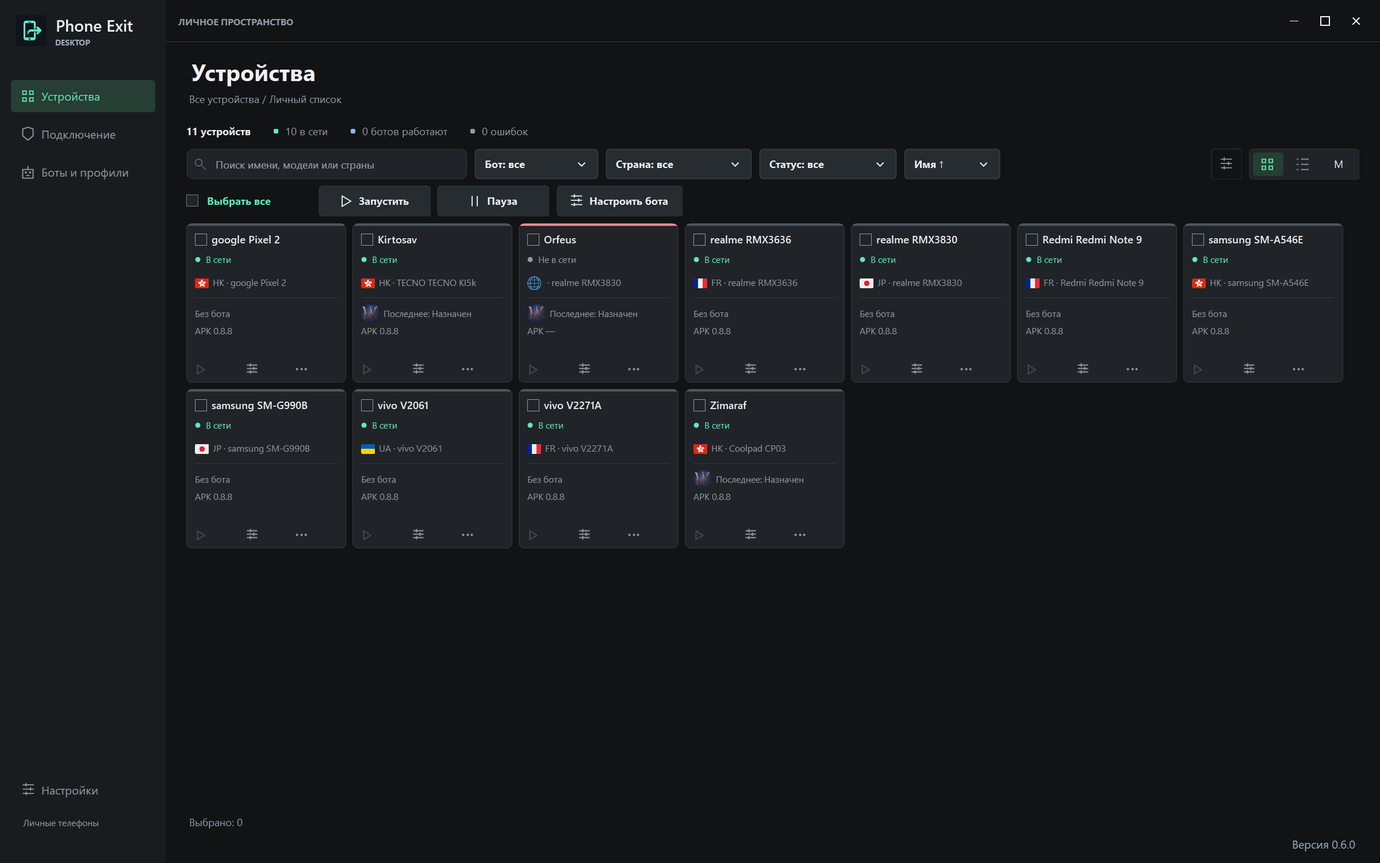
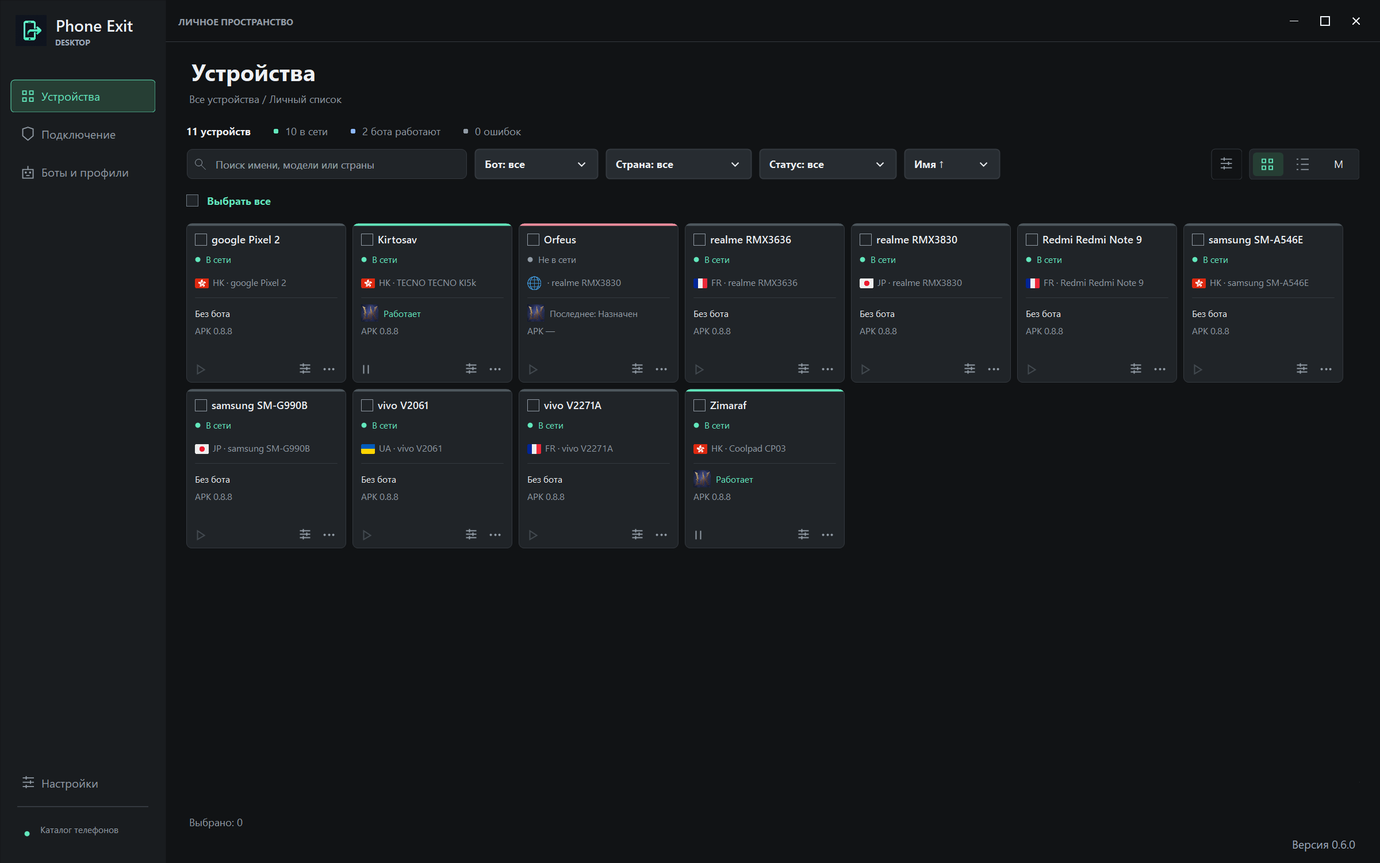
Улучшить встроенные настройки ботов и доступность действий

diff --git a/phone-exit/pc/desktop-bots.cs b/phone-exit/pc/desktop-bots.cs
@@ -15,10 +15,12 @@ public class BotWindow : MonitorDpiWindow {
     [DllImport("user32.dll")] static extern bool ReleaseCapture();
     [DllImport("user32.dll")] static extern IntPtr SendMessage(IntPtr h,int m,IntPtr w,IntPtr l);
     readonly Label heading=new Label();
+    readonly Panel windowBar=new Panel{Dock=DockStyle.Top,Height=56,BackColor=Color.FromArgb(32,36,40)};
+    protected void HideWindowChrome(){windowBar.Visible=false;Padding=Padding.Empty;}
     public bool ProductHeading;
     protected int D(double value){return (int)Math.Round(value*LayoutScale);}
     public BotWindow(){DoubleBuffered=true;BackColor=Color.FromArgb(17,19,21);ForeColor=Color.White;Font=new Font("Segoe UI",10);FormBorderStyle=FormBorderStyle.None;Padding=new Padding(1);MaximizedBounds=Screen.FromControl(this).WorkingArea;
-        var bar=new Panel{Dock=DockStyle.Top,Height=56,BackColor=Color.FromArgb(32,36,40)};heading.Dock=DockStyle.Fill;heading.Padding=new Padding(18,0,0,0);heading.TextAlign=ContentAlignment.MiddleLeft;heading.Font=new Font("Segoe UI",12,FontStyle.Bold);bar.Controls.Add(heading);
+        var bar=windowBar;heading.Dock=DockStyle.Fill;heading.Padding=new Padding(18,0,0,0);heading.TextAlign=ContentAlignment.MiddleLeft;heading.Font=new Font("Segoe UI",12,FontStyle.Bold);bar.Controls.Add(heading);
         foreach(var icon in new[]{"minimize","maximize","close"}){var button=new CaptionButton{Icon=icon,AccessibleName=icon=="close"?"Закрыть":icon=="maximize"?"Развернуть":"Свернуть",Text="",Dock=DockStyle.Right,Width=48,BackColor=bar.BackColor,ForeColor=Color.White,FlatStyle=FlatStyle.Flat};button.FlatAppearance.BorderSize=0;bar.Controls.Add(button);string action=icon;button.Click+=(s,e)=>{if(action=="close")Close();else if(action=="minimize")WindowState=FormWindowState.Minimized;else{MaximizedBounds=Screen.FromControl(this).WorkingArea;WindowState=WindowState==FormWindowState.Maximized?FormWindowState.Normal:FormWindowState.Maximized;}};Resize+=(s,e)=>{button.RestoredIcon=WindowState==FormWindowState.Maximized;button.Invalidate();};}
         heading.MouseDown+=(s,e)=>{if(e.Button==MouseButtons.Left){ReleaseCapture();SendMessage(Handle,0xa1,(IntPtr)2,IntPtr.Zero);}};heading.DoubleClick+=(s,e)=>WindowState=WindowState==FormWindowState.Maximized?FormWindowState.Normal:FormWindowState.Maximized;Controls.Add(bar);}
     protected override void OnTextChanged(EventArgs e){base.OnTextChanged(e);heading.Text=ProductHeading?"Phone Exit":Text;}
@@ -54,11 +56,12 @@ public sealed class BotButton : Button {
         e.Graphics.Clear(Parent==null?Color.FromArgb(17,19,21):Parent.BackColor);e.Graphics.SmoothingMode=SmoothingMode.AntiAlias;var r=new RectangleF(1,1,Width-3,Height-3);float radius=D(10);
         using(var path=new GraphicsPath()){path.AddArc(r.X,r.Y,radius,radius,180,90);path.AddArc(r.Right-radius,r.Y,radius,radius,270,90);path.AddArc(r.Right-radius,r.Bottom-radius,radius,radius,0,90);path.AddArc(r.X,r.Bottom-radius,radius,radius,90,90);path.CloseFigure();Color fill=Enabled?BackColor:Color.FromArgb(32,36,40);if(hover&&Enabled)fill=ControlPaint.Light(fill,.12f);using(var brush=new SolidBrush(fill))e.Graphics.FillPath(brush,path);using(var pen=new Pen(Color.FromArgb(52,57,63)))e.Graphics.DrawPath(pen,path);}
         if(!String.IsNullOrEmpty(ToolIcon)){PaintTool(e.Graphics);return;}
-        string tone=!Enabled?"muted":BackColor==Color.FromArgb(98,231,188)?"dark":ForeColor==Color.FromArgb(255,143,143)?"danger":"light";
+        string tone=!Enabled?"muted":BackColor==Color.FromArgb(98,231,188)?"dark":ForeColor==Color.FromArgb(255,143,143)?"danger":ForeColor==Color.FromArgb(98,231,188)?"mint":"light";
         var actionIcon=DesktopActionIcons.Get(ActionIconName,tone);int left=D(8);
+        Color textInk=!Enabled?Color.FromArgb(119,136,158):actionIcon==null?ForeColor:tone=="dark"?Color.FromArgb(16,37,30):tone=="mint"?Color.FromArgb(98,231,188):tone=="danger"?Color.FromArgb(255,143,143):Color.FromArgb(238,241,244);
         if(actionIcon!=null){e.Graphics.DrawImage(actionIcon,new Rectangle(IconOnly?(Width-D(22))/2:D(12),(Height-D(22))/2,D(22),D(22)));left=D(44);}
         else if(Image!=null){e.Graphics.DrawImage(Image,new Rectangle(D(8),(Height-D(28))/2,D(28),D(28)));left=D(44);}
-        if(!IconOnly){var flags=(Image==null&&actionIcon==null?TextFormatFlags.HorizontalCenter:TextFormatFlags.Left)|TextFormatFlags.VerticalCenter|TextFormatFlags.NoPadding|TextFormatFlags.EndEllipsis|(NavigationCount>=0&&Height<=D(52)||actionIcon!=null?TextFormatFlags.SingleLine:TextFormatFlags.WordBreak);TextRenderer.DrawText(e.Graphics,Caption??Text,Font,new Rectangle(left,D(4),Math.Max(1,Width-left-D(NavigationCount<0?8:30)),Height-D(8)),Enabled?ForeColor:Color.Gray,flags);}
+        if(!IconOnly){var flags=(Image==null&&actionIcon==null?TextFormatFlags.HorizontalCenter:TextFormatFlags.Left)|TextFormatFlags.VerticalCenter|TextFormatFlags.NoPadding|TextFormatFlags.EndEllipsis|(NavigationCount>=0&&Height<=D(52)||actionIcon!=null?TextFormatFlags.SingleLine:TextFormatFlags.WordBreak);TextRenderer.DrawText(e.Graphics,Caption??Text,Font,new Rectangle(left,D(4),Math.Max(1,Width-left-D(NavigationCount<0?8:30)),Height-D(8)),textInk,flags);}
         if(NavigationCount>=0)TextRenderer.DrawText(e.Graphics,NavigationCount.ToString(),Font,new Rectangle(Width-D(28),0,D(24),Height),Color.Silver,TextFormatFlags.NoPadding|TextFormatFlags.SingleLine|TextFormatFlags.HorizontalCenter|TextFormatFlags.VerticalCenter);
         if(Focused)ControlPaint.DrawFocusRectangle(e.Graphics,new Rectangle(4,4,Width-8,Height-8),ForeColor,BackColor);
     }
@@ -84,7 +87,7 @@ public sealed class BotTabs : UserControl {
         int D(int value){return (int)Math.Round(value*DesktopDpi.Relative(this));}
         protected override void OnPaint(PaintEventArgs e){e.Graphics.Clear(BackColor);int textWidth=TextRenderer.MeasureText(Text,Font).Width;int left=Math.Max(D(8),(Width-textWidth-D(30))/2);var icon=DesktopActionIcons.Get(IconName,Active?"mint":"light");if(icon!=null)e.Graphics.DrawImage(icon,new Rectangle(left,(Height-D(22))/2,D(22),D(22)));TextRenderer.DrawText(e.Graphics,Text,Font,new Rectangle(left+D(30),0,Width-left-D(34),Height),Active?Color.FromArgb(98,231,188):Color.Silver,TextFormatFlags.Left|TextFormatFlags.VerticalCenter|TextFormatFlags.SingleLine);if(Active)using(var pen=new Pen(Color.FromArgb(98,231,188),3))e.Graphics.DrawLine(pen,12,Height-2,Width-12,Height-2);if(Focused)ControlPaint.DrawFocusRectangle(e.Graphics,new Rectangle(8,6,Width-16,Height-12),ForeColor,BackColor);}
     }
-    public BotTabs(){BackColor=Color.FromArgb(17,19,21);Controls.Add(body);Controls.Add(header);body.BringToFront();AccessibleRole=AccessibleRole.PageTabList;}
+    public BotTabs(){BackColor=Color.FromArgb(17,19,21);body.Padding=new Padding(0,16,0,0);Controls.Add(body);Controls.Add(header);body.BringToFront();AccessibleRole=AccessibleRole.PageTabList;}
     public void AddPage(string title){int index=TabPages.Count;var page=new Panel{Dock=DockStyle.Fill,BackColor=BackColor,ForeColor=Color.White,Padding=new Padding(12),Visible=false};TabPages.Add(page);body.Controls.Add(page);var button=new TabButton{Text=title,IconName=index==0?"bot":index==1?"map":index==2?"smartphone":"triangle-alert",AccessibleName=title,Width=150,Height=42,Left=index*150,BackColor=BackColor,ForeColor=Color.White};buttons.Add(button);header.Controls.Add(button);button.Click+=(s,e)=>SelectedIndex=index;if(selected<0)SelectedIndex=0;}
     public void SetPageAvailable(int index,bool available){if(available)unavailable.Remove(index);else unavailable.Add(index);buttons[index].Visible=available;int left=0;for(int i=0;i<buttons.Count;i++)if(!unavailable.Contains(i)){buttons[i].Left=left;left+=buttons[i].Width;}if(!available&&selected==index)SelectedIndex=0;}
     public int SelectedIndex{get{return selected;}set{if(value<0||value>=TabPages.Count||value==selected||unavailable.Contains(value))return;selected=value;for(int i=0;i<TabPages.Count;i++){TabPages[i].Visible=i==value;buttons[i].Active=i==value;buttons[i].Invalidate();}TabPages[value].BringToFront();if(SelectedIndexChanged!=null)SelectedIndexChanged(this,EventArgs.Empty);}}
@@ -113,6 +116,42 @@ public sealed class BotPanel : BotWindow {
     string deviceId; bool deviceAvailable;
     readonly Label deviceHeading=new Label(),deviceInfo=new Label();
     BotTabs deviceTabs; readonly Label errorInfo=new Label();
+    readonly Label deviceDetails=new Label();
+    bool embedded;
+    Action embeddedFit;
+    public bool CanLeave(){return !dirty||ConfirmDiscard();}
+    public void SetEmbeddedHeaderOffset(int offset){
+        if(!embedded)return;var list=mainLayout.GetControlFromPosition(0,0);
+        if(list is DarkFlowPanel){
+            mainLayout.Controls.Remove(list);var host=new Panel{Dock=DockStyle.Fill,Margin=Padding.Empty};host.Controls.Add(list);mainLayout.Controls.Add(host,0,0);list=host;
+            host.Controls.Add(new Label{Name="embeddedTitle",Text="Боты и профили",Font=new Font("Segoe UI",20,FontStyle.Bold),ForeColor=Color.FromArgb(238,241,244),AutoSize=false});
+            host.Controls.Add(new Label{Name="embeddedSubtitle",Text="Игры и настройки личных телефонов",Font=new Font("Segoe UI",9),ForeColor=Color.FromArgb(145,155,165),AutoSize=false});
+        }
+        list.Padding=new Padding(0,offset,0,0);int width=Math.Max(100,list.ClientSize.Width-12);
+        list.Controls["embeddedTitle"].SetBounds(6,0,width,offset*38/89);
+        list.Controls["embeddedSubtitle"].SetBounds(6,offset*41/89,width,offset*25/89);
+        list.Controls["embeddedTitle"].BringToFront();list.Controls["embeddedSubtitle"].BringToFront();list.PerformLayout();
+    }
+    protected override void Dispose(bool disposing){if(disposing){poll.Stop();poll.Dispose();http.Dispose();toolTips.Dispose();}base.Dispose(disposing);}
+    public void PrepareEmbedded(){
+        embedded=true;TopLevel=false;MinimumSize=Size.Empty;HideWindowChrome();Font=new Font("Segoe UI",9);phones.Font=Font;
+        phones.CellBorderStyle=DataGridViewCellBorderStyle.SingleHorizontal;phones.ColumnHeadersBorderStyle=DataGridViewHeaderBorderStyle.None;phones.ColumnHeadersDefaultCellStyle.ForeColor=Color.Silver;phones.RowTemplate.Height=54;phones.ColumnHeadersDefaultCellStyle.Font=new Font(Font,FontStyle.Bold);
+        var listHost=new DarkFlowPanel{Dock=DockStyle.Fill,AutoScroll=true,FlowDirection=FlowDirection.TopDown,WrapContents=false,Margin=Padding.Empty};mainLayout.Controls.Remove(phones);phones.Dock=DockStyle.None;phones.Margin=Padding.Empty;phones.ScrollBars=ScrollBars.None;listHost.Controls.Add(phones);mainLayout.Controls.Add(listHost,0,0);Action fitList=()=>{phones.Width=Math.Max(100,listHost.ClientSize.Width-16);phones.Height=phones.ColumnHeadersHeight+phones.Rows.Count*phones.RowTemplate.Height+2;};listHost.Resize+=(s,e)=>fitList();phones.RowsAdded+=(s,e)=>fitList();phones.RowsRemoved+=(s,e)=>fitList();fitList();
+        mainLayout.Padding=Padding.Empty;mainLayout.ColumnStyles[0].SizeType=SizeType.Percent;mainLayout.ColumnStyles[0].Width=52;mainLayout.ColumnStyles[1].SizeType=SizeType.Percent;mainLayout.ColumnStyles[1].Width=48;mainLayout.RowStyles[1].Height=64;
+        var old=mainLayout.GetControlFromPosition(1,0);var stack=new DarkFlowPanel{Dock=DockStyle.Fill,AutoScroll=true,FlowDirection=FlowDirection.TopDown,WrapContents=false,Padding=new Padding(24,0,12,0)};
+        foreach(Control c in new List<Control>(SnapshotControls(old)))stack.Controls.Add(c);mainLayout.Controls.Remove(old);old.Dispose();mainLayout.Controls.Add(stack,1,0);
+        foreach(Control c in stack.Controls){if(c is Label&&c.Text.StartsWith("Настройки применяются"))c.Visible=false;if(c is Label&&c.Font.Bold)c.Font=new Font("Segoe UI",12,FontStyle.Bold);if(c is CheckBox){c.AutoSize=false;c.Height=54;c.Margin=Padding.Empty;}if(c is FlowLayoutPanel){var band=(FlowLayoutPanel)c;band.Height=200;foreach(BotButton b in band.Controls){b.Font=Font;if(b.Text=="Запустить"||b.Text=="Пауза"||b.Text=="Продолжить"||b.Text=="Остановить"){b.IconOnly=true;b.Size=new Size(44,44);}}}var button=c as BotButton;if(button!=null){button.Font=Font;button.ActionIconName=button.Text.StartsWith("Сохранить")?"save":button.Text.StartsWith("Скопировать")?"copy":button.Text.StartsWith("F ·")?"map":button.Text.StartsWith("Имя")?"smartphone":button.Text.StartsWith("Папка")?"triangle-alert":button.ActionIconName;button.Caption=button.Text.StartsWith("Сохранить")?"Сохранить и отправить":button.Text.StartsWith("Скопировать")?"Копировать настройки":button.Text.StartsWith("F ·")?"Настройка фарма":button.Text.StartsWith("Имя")?"Персонаж и поставщик":button.Text.StartsWith("Папка")?"Журнал и скриншоты":button.Text;toolTips.SetToolTip(button,button.Text);}}
+        Action fit=()=>{int w=Math.Max(100,stack.ClientSize.Width-stack.Padding.Horizontal-12);foreach(Control c in stack.Controls){var b=c as BotButton;c.Width=b==null?w:Math.Min(w,b.ContentWidth());if(c is FlowLayoutPanel){c.Visible=true;foreach(BotButton child in c.Controls)child.Width=child.IconOnly?44:Math.Min(w,child.ContentWidth());c.PerformLayout();int bottom=0;foreach(Control child in c.Controls)if(child.Visible)bottom=Math.Max(bottom,child.Bottom+child.Margin.Bottom);c.Height=Math.Max(1,bottom);c.Visible=bottom>0;}}stack.PerformLayout();};stack.Resize+=(s,e)=>fit();
+        // Keep runtime commands separate from module maintenance as the pane narrows.
+        var commandBand=new FlowLayoutPanel{WrapContents=false,Height=52,Margin=new Padding(0,8,0,16)};
+        foreach(Control c in new List<Control>(SnapshotControls(stack))){var band=c as FlowLayoutPanel;if(band==null)continue;foreach(Control child in new List<Control>(SnapshotControls(band))){var button=child as BotButton;if(button!=null&&button.IconOnly)commandBand.Controls.Add(button);}if(commandBand.Controls.Count>0){stack.Controls.Add(commandBand);stack.Controls.SetChildIndex(commandBand,stack.Controls.GetChildIndex(band));break;}}
+        foreach(Control c in stack.Controls){var label=c as Label;if(label!=null){label.MaximumSize=new Size(Math.Max(100,stack.ClientSize.Width-stack.Padding.Horizontal-24),0);label.Margin=new Padding(0,6,0,10);}var button=c as BotButton;if(button!=null){button.Margin=new Padding(0,4,0,4);button.Height=44;if(button.ActionIconName=="map")button.ForeColor=Color.White;if(button.ActionIconName=="import")button.Caption="Импорт профиля MultiBot";}}
+        stack.Padding=new Padding(24,0,12,24);
+        foreach(Control c in stack.Controls){var button=c as BotButton;if(button!=null&&button.ActionIconName=="map"&&!actions.Contains(button))actions.Add(button);}
+        embeddedFit=fit;
+        stack.Resize+=(s,e)=>{foreach(Control c in stack.Controls){var label=c as Label;if(label!=null)label.MaximumSize=new Size(Math.Max(100,stack.ClientSize.Width-stack.Padding.Horizontal-24),0);}fit();stack.PerformLayout();};fit();stack.PerformLayout();
+        status.BackColor=Background;status.Padding=new Padding(0,8,0,0);status.AutoSize=false;status.TextAlign=ContentAlignment.TopLeft;
+    }
     public string[] InitialCopyTargets=new string[0];
     readonly Label moduleLabel=new Label(); string moduleVersion="1.0.0";
     readonly DarkSelect gameSelect=new DarkSelect{Width=420,Height=44,AccessibleName="Игра"};
@@ -189,7 +228,7 @@ public sealed class BotPanel : BotWindow {
         var cancelEditor=new BotButton{Text="Отменить проверку",AutoSize=true,BackColor=Surface,ForeColor=Color.White};pointButtons.Controls.Add(cancelEditor);buttonCommands[cancelEditor]=async()=>{if(!busy||selected==null)return;try{await Request("POST","/v1/devices/"+selected+"/commands",new{command="bot",args=new{op="pause"}});status.Text="Отмена отправлена; ожидается подтверждение телефона.";}catch{status.Text="Отмена не подтверждена; проверьте связь.";}};cancelEditor.Click+=(s,e)=>buttonCommands[cancelEditor]();
         status.Dock=DockStyle.Fill;status.ForeColor=Color.FromArgb(197,207,219);status.BackColor=Surface;status.Padding=new Padding(14,10,14,10);status.Text="Загрузка телефонов… Выберите телефон. Точки и маршрут — в F · Настройка фарма.";layout.Controls.Add(status,0,1);layout.SetColumnSpan(status,2);
         var locationMenu=new BotButton{Text="⋯",AccessibleName="Действия с локацией",Width=46,Height=40,BackColor=Surface,ForeColor=Color.White};var locationActions=new ContextMenuStrip{ShowImageMargin=false,BackColor=Surface,ForeColor=Color.White,Renderer=new DarkMenuRenderer()};foreach(Control action in new List<Control>(SnapshotControls(pointButtons))){var button=action as Button;if(button==null)continue;button.Visible=false;var item=new ToolStripMenuItem(button.Text);item.Click+=(s,e)=>buttonCommands[button]();locationActions.Items.Add(item);}locationMenu.Click+=(s,e)=>{for(int i=0;i<locationActions.Items.Count;i++)locationActions.Items[i].Enabled=pointButtons.Controls[i].Enabled;locationActions.Show(locationMenu,new Point(0,locationMenu.Height));};pointButtons.Controls.Add(locationMenu);toolTips.SetToolTip(locationMenu,"Действия с локацией");FormClosed+=(s,e)=>locationActions.Dispose();
-        Shown+=async(s,e)=>{if(!String.IsNullOrEmpty(deviceId))ConfigureDeviceView();try{var catalog=await Request("GET","/bot/v1/catalog");foreach(var item in Arr(catalog["bots"])){var m=Obj(item);gameModules.Add(m);gameSelect.Items.Add(Str(m,"name"));}}catch{gameSettingsNotice.Text="Каталог игр недоступен.";}await LoadMaps();await RefreshPhones();UpdateGameView();};poll.Interval=5000;poll.Tick+=async(s,e)=>{if(!busy&&!loading)await RefreshPhones();};poll.Start();FormClosed+=(s,e)=>{poll.Stop();poll.Dispose();http.Dispose();toolTips.Dispose();if(picture.Image!=null)picture.Image.Dispose();};
+        Shown+=async(s,e)=>{if(!embedded&&!String.IsNullOrEmpty(deviceId))ConfigureDeviceView();try{var catalog=await Request("GET","/bot/v1/catalog");foreach(var item in Arr(catalog["bots"])){var m=Obj(item);gameModules.Add(m);gameSelect.Items.Add(Str(m,"name"));}}catch{gameSettingsNotice.Text="Каталог игр недоступен.";}await LoadMaps();await RefreshPhones();UpdateGameView();};poll.Interval=5000;poll.Tick+=async(s,e)=>{if(!busy&&!loading&&Visible)await RefreshPhones();};poll.Start();FormClosed+=(s,e)=>{poll.Stop();poll.Dispose();http.Dispose();toolTips.Dispose();if(picture.Image!=null)picture.Image.Dispose();};
         FormClosing+=(s,e)=>{if(dirty&&!ConfirmDiscard())e.Cancel=true;};
     }
     bool ConfirmDiscard(){using(var dialog=new BotWindow{Text="Несохранённые настройки",Size=new Size(490,250),MinimumSize=new Size(490,250),StartPosition=FormStartPosition.CenterParent}){
@@ -223,23 +262,22 @@ public sealed class BotPanel : BotWindow {
         var automation=new DarkFlowPanel{Dock=DockStyle.Fill,AutoScroll=true,FlowDirection=FlowDirection.TopDown,WrapContents=false,Padding=new Padding(24,0,0,0)};var gameOptions=new FlowLayoutPanel{FlowDirection=FlowDirection.TopDown,WrapContents=false,Height=260,Margin=new Padding(0,0,0,8)};gameAutomation=gameOptions;automation.Controls.Add(gameOptions);
         var commandButtons=new FlowLayoutPanel{Height=54,WrapContents=false,Margin=new Padding(0,0,0,20)};var moduleButtons=new FlowLayoutPanel{Height=48,WrapContents=true,Margin=new Padding(0,0,0,16)};
         botPage.Controls.Add(SectionTitle("Управление"));botPage.Controls.Add(commandButtons);botPage.Controls.Add(SectionTitle("Модуль"));botPage.Controls.Add(moduleButtons);
-        automationHeading=new GameAutomationHeading{Text="Автоматизация",Height=44,Font=new Font("Segoe UI",11,FontStyle.Bold),ForeColor=Color.White,Margin=new Padding(0,0,0,8)};automation.Controls.Add(automationHeading);automation.Controls.SetChildIndex(automationHeading,0);gameOptions.Height=216;
+        automationHeading=new GameAutomationHeading{Text="Автоматизация",Height=44,Font=new Font("Segoe UI",11,FontStyle.Bold),ForeColor=Color.White,Margin=new Padding(0,0,0,8)};automation.Controls.Add(automationHeading);automation.Controls.SetChildIndex(automationHeading,0);gameOptions.Height=270;
         botLayout.Controls.Add(botPage,0,1);botLayout.Controls.Add(automation,1,1);deviceTabs.TabPages[0].Controls.Add(botLayout);
         var footer=new FlowLayoutPanel{Dock=DockStyle.Fill,FlowDirection=FlowDirection.LeftToRight,WrapContents=false};content.Controls.Add(footer,0,2);
         // Reparent the existing controls so every tab edits the same in-memory profile.
         foreach(Control control in new List<Control>(SnapshotControls(controls))){
             if(control.Text=="Сохранить и отправить настройки"||control.Text=="Скопировать настройки на телефоны…"){control.Width=310;control.Height=44;footer.Controls.Add(control);}
-            else if(control.Text=="Имя персонажа · VMOS / UgPhone…"){control.SetBounds(20,20,440,48);deviceTabs.TabPages[2].Controls.Add(control);}
-            else if(control.Text=="Папка ошибок и скриншотов…"){control.SetBounds(20,20,440,48);deviceTabs.TabPages[3].Controls.Add(control);}
+            else if(control.Text=="Имя персонажа · VMOS / UgPhone…"){((BotButton)control).Caption="Изменить персонажа и поставщика";((BotButton)control).ActionIconName="smartphone";AddDetailPage(deviceTabs.TabPages[2],"Устройство",deviceDetails,control);}
+            else if(control.Text=="Папка ошибок и скриншотов…"){((BotButton)control).Caption="Открыть журнал и скриншоты";((BotButton)control).ActionIconName="triangle-alert";AddDetailPage(deviceTabs.TabPages[3],"Диагностика",errorInfo,control);}
             else if(control is CheckBox){control.AutoSize=false;control.Height=54;control.Margin=new Padding(0);gameOptions.Controls.Add(control);}
             else if(control==gameSelect||control==moduleLabel||control==gameSettingsNotice)continue;
             else if(control is FlowLayoutPanel){foreach(Control action in new List<Control>(SnapshotControls(control))){action.Margin=new Padding(0,0,8,8);if(action.Text=="Назначить"){action.Dock=DockStyle.Fill;action.Margin=new Padding(0);gameBand.Controls.Add(action,1,1);}else if(action.Text=="Скачать / установить"||action.Text=="Обновить"||action.Text=="Откат"||action.Text=="Статус"){action.Height=44;moduleButtons.Controls.Add(action);}else{var button=(BotButton)action;button.IconOnly=true;button.AccessibleName=button.Text;toolTips.SetToolTip(button,button.Text);button.Size=new Size(44,44);if(button.Text=="Запустить"){button.BackColor=Mint;button.ForeColor=Background;}else if(button.Text=="Остановить")button.ForeColor=Color.FromArgb(255,143,143);commandButtons.Controls.Add(action);}}}
             else if(control.Text=="Импортировать профиль MultiBot…"){((BotButton)control).Caption="Импорт профиля MultiBot";toolTips.SetToolTip(control,control.Text);control.Margin=new Padding(0,0,0,24);botPage.Controls.Add(control);}
         }
         automation.Controls.Add(SectionTitle("Последний отчёт"));foreach(var label in new[]{liveState,liveStep,liveRevision}){label.Height=30;label.Margin=new Padding(0);label.AutoEllipsis=true;label.TextAlign=ContentAlignment.MiddleLeft;label.ForeColor=Color.Silver;automation.Controls.Add(label);}
-        Action fitBot=()=>{if(ChangingDpi)return;int width=Math.Max(100,botPage.ClientSize.Width-botPage.Padding.Horizontal-24);foreach(Control control in botPage.Controls){var button=control as BotButton;control.Width=button==null?width:Math.Min(width,button.ContentWidth());}foreach(Control button in commandButtons.Controls)button.Size=new Size(D(44),D(44));foreach(BotButton button in moduleButtons.Controls)button.Width=Math.Min(width,button.ContentWidth());moduleButtons.PerformLayout();int bottom=0;foreach(Control button in moduleButtons.Controls)bottom=Math.Max(bottom,button.Bottom+button.Margin.Bottom);moduleButtons.Height=Math.Max(D(52),bottom);int rightWidth=Math.Max(100,automation.ClientSize.Width-automation.Padding.Horizontal-24);foreach(Control control in automation.Controls)control.Width=rightWidth;foreach(Control control in gameOptions.Controls)control.Width=rightWidth;};botPage.Resize+=(s,e)=>fitBot();automation.Resize+=(s,e)=>fitBot();fitBot();MonitorDpiChanged+=(s,e)=>fitBot();
+        Action fitBot=()=>{if(ChangingDpi)return;int width=Math.Max(100,botPage.ClientSize.Width-botPage.Padding.Horizontal-24);foreach(Control control in botPage.Controls){var button=control as BotButton;control.Width=button==null?width:Math.Min(width,button.ContentWidth());}foreach(Control button in commandButtons.Controls)button.Size=new Size(D(44),D(44));foreach(BotButton button in moduleButtons.Controls)button.Width=Math.Min(width,button.ContentWidth());moduleButtons.PerformLayout();int bottom=0;foreach(Control button in moduleButtons.Controls)bottom=Math.Max(bottom,button.Bottom+button.Margin.Bottom);moduleButtons.Height=Math.Max(D(52),bottom);int rightWidth=Math.Max(100,automation.ClientSize.Width-automation.Padding.Horizontal-24);foreach(Control control in automation.Controls)control.Width=rightWidth;int optionsHeight=0;foreach(Control control in gameOptions.Controls){control.Width=rightWidth;control.Height=D(54);optionsHeight+=control.Height;}gameOptions.Height=optionsHeight;};botPage.Resize+=(s,e)=>fitBot();automation.Resize+=(s,e)=>fitBot();fitBot();MonitorDpiChanged+=(s,e)=>fitBot();
         deviceTabs.TabPages[1].Controls.Add(mapEditor);mapEditor.Dock=DockStyle.Fill;
-        errorInfo.SetBounds(20,72,900,200);errorInfo.Anchor=AnchorStyles.Top|AnchorStyles.Left|AnchorStyles.Right;errorInfo.ForeColor=Color.Silver;deviceTabs.TabPages[3].Controls.Add(errorInfo);
         status.Dock=DockStyle.Fill;status.BackColor=Background;status.Padding=new Padding(0);status.AutoEllipsis=true;content.Controls.Add(status,0,3);
         foreach(var action in actions)if(action.Text=="Скачать / установить"){((BotButton)action).Caption="Установить";action.AccessibleName="Скачать и установить модуль";toolTips.SetToolTip(action,"Скачать и установить модуль");}
         var assignButton=gameBand.GetControlFromPosition(1,1) as BotButton;
@@ -253,6 +291,7 @@ public sealed class BotPanel : BotWindow {
         foreach(var action in actions)action.Enabled=false;
     }
     Label SectionTitle(string text){return new Label{Text=text,Height=D(38),ForeColor=Color.White,Font=new Font("Segoe UI",11*LayoutScale,FontStyle.Bold),Margin=new Padding(0),TextAlign=ContentAlignment.MiddleLeft};}
+    void AddDetailPage(Panel page,string title,Label details,Control action){var stack=new DarkFlowPanel{Dock=DockStyle.Fill,AutoScroll=true,FlowDirection=FlowDirection.TopDown,WrapContents=false,Padding=new Padding(16,12,16,12)};page.Controls.Add(stack);var heading=SectionTitle(title);stack.Controls.Add(heading);details.AutoSize=true;details.ForeColor=Color.Silver;details.Margin=new Padding(0,12,0,24);stack.Controls.Add(details);action.Margin=new Padding(0);action.Height=48;stack.Controls.Add(action);Action fit=()=>{int w=Math.Max(100,stack.ClientSize.Width-stack.Padding.Horizontal-20);heading.Width=w;details.MaximumSize=new Size(w,0);details.Width=w;var button=action as BotButton;action.Width=button==null?w:Math.Min(w,button.ContentWidth());};stack.Resize+=(s,e)=>fit();fit();}
     void FitNavigation(FlowLayoutPanel panel){if(ChangingDpi)return;int width=Math.Max(50,panel.ClientSize.Width-D(20));foreach(Control control in panel.Controls)control.Width=width;}
     Image NavigationIcon(Dictionary<string,object> map,bool region){try{using(var stream=File.OpenRead(Path.Combine(root,"lordnine","maps",Str(map,"image"))))using(var bitmap=new Bitmap(stream)){double[] ys={.250,.337,.423,.507,.590};int tab=Convert.ToInt32(map["tab_index"]);double y=region?(tab>=1&&tab<=ys.Length?ys[tab-1]:ys[0]):Convert.ToDouble(Arr(map["select_point"])[1]);var rect=Rectangle.FromLTRB((int)(bitmap.Width*(region?.006:.045)),(int)(bitmap.Height*(y-(region?.040:.042))),(int)(bitmap.Width*(region?.040:.085)),(int)(bitmap.Height*(y+(region?.040:.042))));using(var crop=bitmap.Clone(rect,bitmap.PixelFormat))return new Bitmap(crop,28,28);}}catch{return null;}}
     void SelectCatalogMap(int index){if(index<0||index>=mapItems.Count)return;int spot=points.FindIndex(p=>Str(p,"map_id")==Str(mapItems[index],"id"));spots.SelectedIndex=spot;maps.SelectedIndex=index;RefreshNavigation();RefreshPointList();}
@@ -267,7 +306,7 @@ public sealed class BotPanel : BotWindow {
     }
     void UpdateGameView(){
         gameSelect.Enabled=!busy&&gameModules.Count>0&&(String.IsNullOrEmpty(deviceId)||deviceAvailable);
-        var module=gameModules.Find(m=>Str(m,"id")==chosenGame);moduleVersion=module==null?"":Str(module,"version");moduleLabel.Text=module==null?"Модуль недоступен":deviceTabs==null?Str(module,"name")+" · модуль "+moduleVersion:"Модуль "+moduleVersion;
+        var module=gameModules.Find(m=>Str(m,"id")==chosenGame);bool noGame=String.IsNullOrEmpty(chosenGame)||chosenGame=="—";moduleVersion=module==null?"":Str(module,"version");moduleLabel.Text=module==null?(noGame?"Игра не назначена":"Модуль недоступен"):deviceTabs==null?Str(module,"name")+" · модуль "+moduleVersion:"Модуль "+moduleVersion;
         if(automationHeading!=null){
             automationHeading.Text=(module==null?"Игра":Str(module,"name"))+" · Автоматизация";
             if(automationGame!=chosenGame){
@@ -278,11 +317,12 @@ public sealed class BotPanel : BotWindow {
                 automationGame=chosenGame;
             }
         }
-        gameSettingsNotice.Text=chosenGame!=profileGame?"Игра ещё не назначена этому телефону.":LordNineSettings?"":"Настройки этой игры пока недоступны в клиенте.";
+        gameSettingsNotice.Text=noGame?"Выберите игру для этого телефона.":chosenGame!=profileGame?"Игра ещё не назначена этому телефону.":LordNineSettings?"":"Настройки этой игры пока недоступны в клиенте.";
         foreach(var check in new[]{farm,recovery,dismantle,rareDismantle,autostart}){check.Visible=LordNineSettings;check.Enabled=LordNineSettings&&!busy;}
         if(gameAutomation!=null)gameAutomation.Visible=LordNineSettings;
         if(deviceTabs!=null)deviceTabs.SetPageAvailable(1,LordNineSettings);
-        foreach(var action in actions){bool available=(String.IsNullOrEmpty(deviceId)||deviceAvailable)&&settings!=null&&!busy;string name=action.Text;if(name=="Назначить")available&=module!=null&&chosenGame=="lordnine";else if(name=="Скачать / установить"||name=="Обновить")available&=module!=null&&chosenGame==profileGame;else if(name.Contains("настройки")||name.Contains("профиль MultiBot")||name.Contains("фарм"))available&=LordNineSettings;action.Enabled=available;}
+        foreach(var action in actions){bool available=(String.IsNullOrEmpty(deviceId)||deviceAvailable)&&settings!=null&&!busy;string name=action.Text;if(name=="Назначить")available&=module!=null&&chosenGame=="lordnine";else if(name=="Скачать / установить"||name=="Обновить")available&=module!=null&&chosenGame==profileGame;else if(name=="Запустить"||name=="Пауза"||name=="Продолжить"||name=="Остановить"||name=="Откат")available&=!String.IsNullOrEmpty(profileGame)&&profileGame!="—";else if(name.Contains("настройки")||name.Contains("профиль MultiBot")||name.Contains("фарм"))available&=LordNineSettings;action.Enabled=available;if(embedded&&!busy)action.Visible=available;}
+        if(embeddedFit!=null)embeddedFit();
     }
     async Task AssignGame(){if(String.IsNullOrEmpty(chosenGame))return;if(chosenGame!="lordnine"){status.Text="Назначение этой игры пока не поддерживается клиентом.";return;}if(dirty){status.Text="Сначала сохраните или отмените изменения текущей игры.";return;}if(chosenGame!=profileGame&&MessageBox.Show(this,"Назначить игру «"+Convert.ToString(gameSelect.SelectedItem)+"» этому телефону? Настройки другой игры не переносятся.","Смена игры",MessageBoxButtons.YesNo,MessageBoxIcon.Question)!=DialogResult.Yes)return;await Action("assign",chosenGame);profile=null;await LoadProfile();}
     static IEnumerable<Control> SnapshotControls(Control parent){foreach(Control control in parent.Controls)yield return control;}
@@ -305,7 +345,7 @@ public sealed class BotPanel : BotWindow {
                 string botState=Str(bot,"status");row.Cells[3].Style.ForeColor=botState=="error"?Color.FromArgb(255,137,137):botState=="running"?Mint:Color.Silver;row.Tag=Str(p,"id");
                 if((string)row.Tag==selected){select=row.Index;deviceAvailable=true;if(!dirty)status.Text=Translate(botState)+" · "+Step(Str(bot,"step"))+" · Настройки: "+(Bool(saved,"pending")?"ожидают отправки":Translate(Str(bot,"settingsStatus")));
                     liveState.Text="Состояние: "+Translate(botState);liveState.ForeColor=botState=="running"?Mint:botState=="error"?Color.FromArgb(255,137,137):Color.Silver;liveStep.Text="Шаг: "+Step(Str(bot,"step"));liveRevision.Text="Профиль: "+Str(bot,"appliedRevision")+" / "+Str(bot,"receivedRevision")+" · "+Translate(Str(bot,"settingsStatus"));
-                    if(scoped){deviceHeading.Text=PhoneTitle(p,saved);Text="Phone Exit · "+deviceHeading.Text;deviceInfo.Text=(Bool(p,"online")?"В сети":"Не в сети · настройки сохраняются на ПК")+" · Бот: "+Str(bot,"botId")+" · "+Str(bot,"version")+" · "+Translate(botState);errorInfo.Text="Последний отчёт телефона\n\n"+StatusLine(bot,saved);}}
+                    if(scoped){deviceHeading.Text=PhoneTitle(p,saved);Text="Phone Exit · "+deviceHeading.Text;deviceInfo.Text=(Bool(p,"online")?"В сети":"Не в сети · настройки сохраняются на ПК")+" · Бот: "+Str(bot,"botId")+" · "+Str(bot,"version")+" · "+Translate(botState);errorInfo.Text=StatusLine(bot,saved);var identity=Obj(saved.ContainsKey("identity")?saved["identity"]:null);deviceDetails.Text="Персонаж: "+Str(identity,"characterName")+"\n\nМодель: "+Str(p,"name")+"\n\nСтрана: "+Str(p,"country")+"\n\nПоставщик: "+Str(identity,"provider")+"\n\nAPK: "+Str(p,"versionName")+"\n\nСвязь: "+(Bool(p,"online")?"В сети":"Не в сети");}}
             }
             if(select>=0)phones.Rows[select].Selected=true;
             else if(scoped){phones.ClearSelection();deviceHeading.Text="Телефон недоступен";deviceInfo.Text="Устройство отсутствует в личном списке.";status.Text="Выбранный телефон не найден. Другое устройство не выбрано.";}

diff --git a/phone-exit/pc/desktop-fleet.cs b/phone-exit/pc/desktop-fleet.cs
@@ -163,7 +163,7 @@ namespace PhoneExit {
             if(p.BotState=="paused"||p.BotState=="starting"||p.BotState=="waiting")return Color.FromArgb(240,198,127);
             return Color.FromArgb(78,88,94);
         }
-        public Rectangle ActionBounds(int i,int action){var r=CardBounds(i);return new Rectangle(table?r.Right-D(94)+action*D(29):r.X+D(6)+action*(r.Width-D(12))/3,table?r.Y+D(18):r.Bottom-D(25),D(26),D(22));}
+        public Rectangle ActionBounds(int i,int action){var r=CardBounds(i);int x=table?r.Right-D(94)+action*D(29):action==0?r.X+D(6):r.Right-D(action==1?60:32);return new Rectangle(x,table?r.Y+D(18):r.Bottom-D(25),D(26),D(22));}
         string QuickOp(FleetPhone p){return p.BotState=="running"?"pause":p.BotState=="paused"?"resume":"start";}
         bool CanAct(FleetPhone p,string op){return p.Online&&p.Fresh&&!p.Pending&&!string.IsNullOrEmpty(p.BotId)&&(op=="pause"?p.BotState=="running"||p.BotState=="starting"||p.BotState=="waiting":op=="resume"?p.BotState=="paused":op=="start"?p.BotState!="running"&&p.BotState!="starting"&&p.BotState!="paused":op=="stop"?p.BotState!="stopped":false);}
         void DrawAction(Graphics g,Rectangle r,int a,FleetPhone p){bool enabled=a>0||CanAct(p,QuickOp(p));using(var pen=new Pen(enabled?Muted:Color.FromArgb(66,73,79),D(1.3))){int x=r.X+D(7),y=r.Y+D(5);if(a==0){if(p.BotState=="running"){g.DrawLine(pen,x,y,x,y+D(10));g.DrawLine(pen,x+D(5),y,x+D(5),y+D(10));}else g.DrawPolygon(pen,new[]{new Point(x,y),new Point(x+D(8),y+D(5)),new Point(x,y+D(10))});}else if(a==1){for(int k=0;k<3;k++){g.DrawLine(pen,x,y+D(k*4),x+D(12),y+D(k*4));g.DrawLine(pen,x+D(k==1?8:4),y+D(k*4-2),x+D(k==1?8:4),y+D(k*4+2));}}else for(int k=0;k<3;k++)g.DrawEllipse(pen,x+D(k*5),y+D(4),D(1),D(1));}}

diff --git a/phone-exit/docs/redesign-2026-10-13/bot-settings-workflow.md b/phone-exit/docs/redesign-2026-10-13/bot-settings-workflow.md
@@ -1,0 +1,19 @@
+# Настройки ботов, 14 октября
+
+- Массовые команды видны только при непустом выборе телефонов.
+- «Настроить бота» открывает отдельное немодальное окно каждого выбранного
+  телефона. Повторный вызов активирует существующее окно, а не создаёт дубликат.
+- «Боты и профили» открывается внутри основного окна, с общей навигацией.
+  Переключение разделов сохраняет несохранённый профиль; закрытие основного
+  окна требует подтверждения отказа от изменений.
+- Вкладки получили верхний отступ; устройство показывает персонажа, модель,
+  страну, поставщика, APK и связь. Диагностика показывает текущий отчёт и журнал.
+- Пять строк автоматизации Lord Nine, включая автозапуск игры, помещаются
+  внутри блока; при нехватке высоты доступна тёмная прокрутка.
+- Тесты проверяют независимые окна двух телефонов, скрытие команд без выбора,
+  встроенный раздел в двух размерах, автозапуск, данные устройства и вкладки.
+  Реальные команды ботов и сохранение профилей при этих тестах не выполняются.
+
+Android 0.8.9: системная иконка настроек заменена встроенным VectorDrawable
+Lucide 0.468.0, исключающим различия значка между прошивками производителей.
+Personal APK собран, lint: 0 ошибок, 17 предупреждений. На телефоны не установлен.

diff --git a/phone-exit/docs/redesign-2026-10-13/device-list-implementation.md b/phone-exit/docs/redesign-2026-10-13/device-list-implementation.md
@@ -50,6 +50,9 @@ VPN показывает только подключение через теку
 группа 100px, страна 70px, связь 96px, VPN/APK по 64px,
 поставщик и действия по 104px. Остальная ширина распределяется между
 устройством, ботом и состоянием; заголовки и строки используют общие размеры.
+Нижние действия карточек: запуск/пауза слева, настройки и меню сгруппированы
+справа. Их области клика не пересекаются, выравнивание проверено в XS/M
+при DPI 100/150%; таблица сохраняет прежнее расположение действий.
 
 Проверки: test-desktop-fleet.ps1 (100/150%, фильтры, прокрутка, действия),
 desktop.ps1 -UiTest (реальный каталог, фильтры, размеры и остальные окна).
